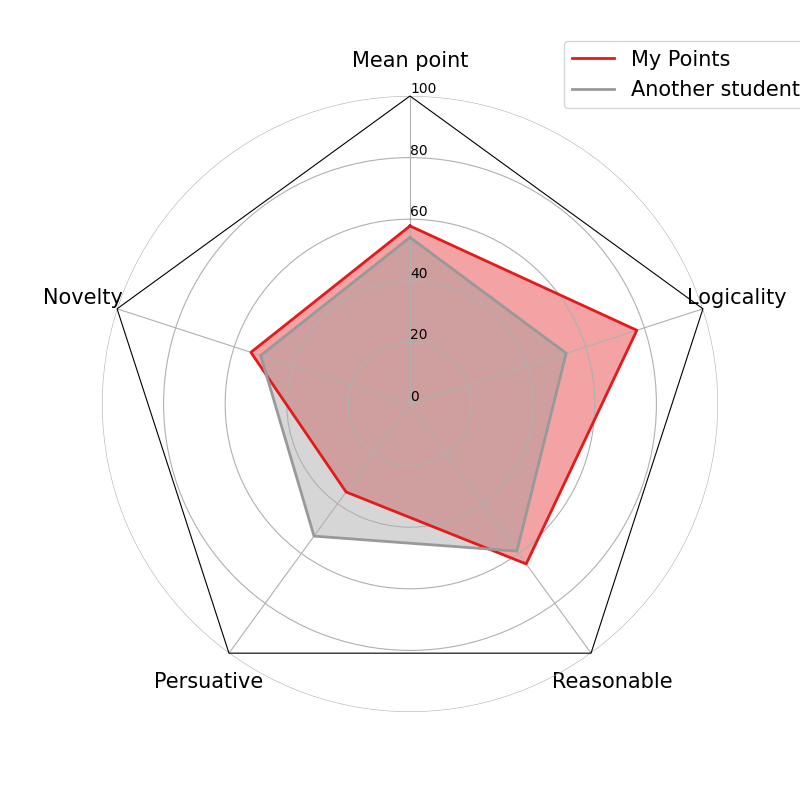
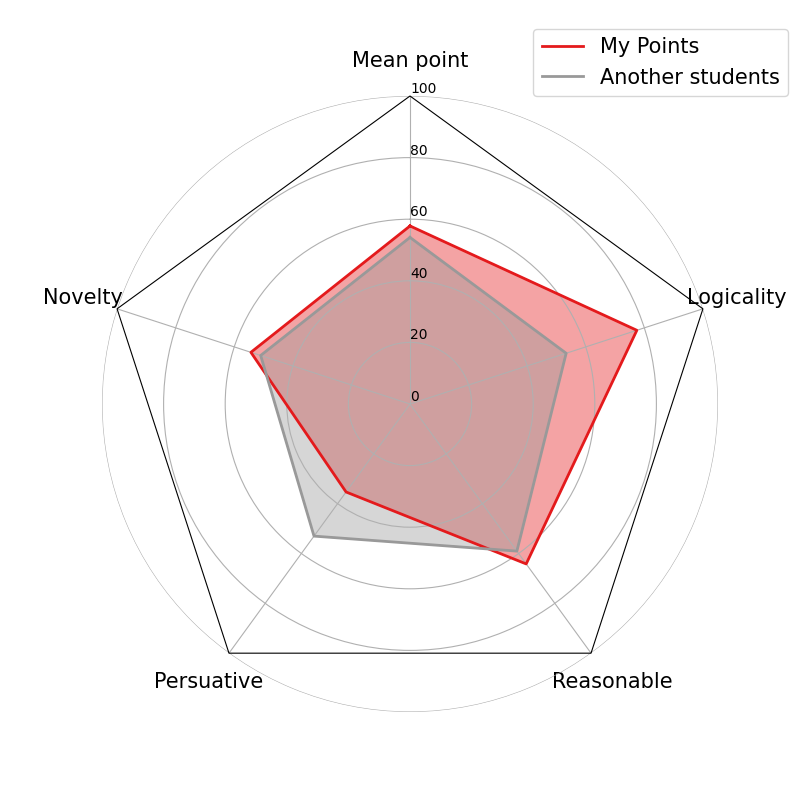
html 수정사항 적용

Changed region(s): [[0.6562, 0.0312, 1.0, 0.125]]

diff --git a/templates/result.html b/templates/result.html
@@ -228,7 +228,7 @@
                         </div>
                         <ul class="ul">
                             <li>내 점수 <span class="blue">{{ my_points[0] }}점</span></li>
-                            <li>점수표본평균 <span class="green">{{ hub_points[0] }}점</span></li>
+                            <li>평균 점수 <span class="green">{{ hub_points[0] }}점</span></li>
                             <li>상위 {{ grade_list[0] }}%</li>
                         </ul>
                     </div>
@@ -246,7 +246,7 @@
                         </div>
                         <ul class="ul">
                             <li>내 점수 <span class="blue">{{ my_points[1] }}점</span></li>
-                            <li>점수표본평균 <span class="green">{{ hub_points[1] }}점</span></li>
+                            <li>평균 점수 <span class="green">{{ hub_points[1] }}점</span></li>
                             <li>상위 {{ grade_list[1] }}%</li>
                         </ul>
                     </div>
@@ -263,7 +263,7 @@
                         </div>
                         <ul class="ul">
                             <li>내 점수 <span class="blue">{{ my_points[2] }}점</span></li>
-                            <li>점수표본평균 <span class="green">{{ hub_points[2] }}점</span></li>
+                            <li>평균 점수 <span class="green">{{ hub_points[2] }}점</span></li>
                             <li>상위 {{ grade_list[2] }}%</li>
                         </ul>
                     </div>
@@ -280,7 +280,7 @@
                         </div>
                         <ul class="ul">
                             <li>내 점수 <span class="blue">{{ my_points[3] }}점</span></li>
-                            <li>점수표본평균 <span class="green">{{ hub_points[3] }}점</span></li>
+                            <li>평균 점수 <span class="green">{{ hub_points[3] }}점</span></li>
                             <li>상위 {{ grade_list[3] }}%</li>
                         </ul>
                     </div>
@@ -300,16 +300,25 @@
                     </div>
                     <div class="total-graph result-graph">
                     </div>
-                    
+                    <div class="total-text result-text">
+                        <div class="by">
+                            Below Points
+                        </div>
+                        <ul class="ul">
+                            <li>내 평균 <span class="blue">{{ total_mean[0] }}</span></li>
+                            <li>요소 평균 <span class="green">{{ total_mean[1] }}</span></li>
+                            <li>상위 {{ grade_list[4] }}%</li>
+                        </ul>
+                    </div>
                 </div>
                 <div class="total-evaluation">
                     <div class="evaluation-title">
                         당신의 평균 점수는 : 
                     </div>
                     <div class="evaluation-text">
-                        {{ total_mean[0] }}점
+                        {{ total_mean[0] }}
                         <div class="evaluation-under">
-                            
+                            당신의 에세이는 상위 <span class="persent">{{ grade_list[4] }}%</span>
                             전체적으로 글을 잘 쓰셨습니다.
 
                         </div>
@@ -317,30 +326,81 @@
                     <div class="evaluation-element">
                         요소별 평가
                         <ul class="evaluation-ul">
-                            <li>
-                                논리성 : 
+                            <li class="li logical-li">
+                                논리성 : {{ my_points[0] }}
+                                <div class="progress logical-progress">
+                                    <div class="bar logical-bar">
+                                    </div>
+                                </div>
                             </li>
-                            <li>
-                                풍부한 근거 :
+                            <li class="li novelty-li">
+                                풍부한 근거 : {{ my_points[1] }}
+                                <div class="progress novelty-progress">
+                                    <div class="bar novelty-bar">
+                                    </div>
                             </li>
-                            <li>
-                                설득력 :
+                            <li class="li persuasive-li">
+                                설득력 : {{ my_points[2] }}
+                                <div class="progress persuasive-progress">
+                                    <div class="bar persuasive-bar">
+                                    </div>
                             </li>
-                            <li>
-                                참신성 :
+                            <li class="li reason-li">
+                                참신성 : {{ my_points[3] }}
+                                <div class="progress reason-progress">
+                                    <div class="bar reason-bar">
+                                    </div>
                             </li>
                         </ul>
                     </div>
                 </div>
             </div>
         </div>
-        <div class="wrapper">
-            위 점수의 표본은 초중고 에세이 약 1만4천개를 가져왔습니다.<br>
-            출처 : AIHub_에세이 글 평가 데이터 
-        </div>
+
         <footer>
                 Made by AI Model : DaegonYu     |       Web Page : IlhanYu
         </footer>
+        <script>
+            let logicalBarPersent = document.querySelector(".logical-bar");
+            let logicalBlue = document.querySelector(".logical-blue");
+            let logicalBlueInnerHTML;
+            let noveltyBarPersent = document.querySelector(".novelty-bar");
+            let noveltyBlue = document.querySelector(".novelty-blue");
+            let noveltyBlueInnerHTML;
+            let persuasiveBarPersent = document.querySelector(".persuasive-bar");
+            let persuasiveBlue = document.querySelector(".persuasive-blue");
+            let persuasiveBlueInnerHTML;
+            let reasonBarPersent = document.querySelector(".reason-bar");
+            let reasonBlue = document.querySelector(".reason-blue");
+            let reasonBlueInnerHTML;
+
+            function barMove (event) {
+                logicalBlueInnerHTML = logicalBlue.innerHTML;
+                noveltyBlueInnerHTML = noveltyBlue.innerHTML;
+                persuasiveBlueInnerHTML = persuasiveBlue.innerHTML;
+                reasonBlueInnerHTML = reasonBlue.innerHTML;
+
+                for(let i = 0; i <= logicalBlueInnerHTML * 8; i++) {
+                    console.log(logicalBlueInnerHTML);
+                    logicalBarPersent.style.width = `${i}px`; 
+                }
+                for(let i = 0; i <= noveltyBlueInnerHTML * 8; i++) {
+                    console.log(noveltyBlueInnerHTML);
+                    noveltyBarPersent.style.width = `${i}px`; 
+                }
+                for(let i = 0; i <= persuasiveBlueInnerHTML * 8; i++) {
+                    console.log(persuasiveBlueInnerHTML);
+                    persuasiveBarPersent.style.width = `${i}px`; 
+                }
+                for(let i = 0; i <=  reasonBlueInnerHTML * 8; i++) {
+                    console.log(reasonBlueInnerHTML);
+                    reasonBarPersent.style.width = `${i}px`; 
+                }
+            }
+    
+            barMove();
+    
+        </script>
     </body>
 </html>
 

diff --git a/app.py b/app.py
@@ -40,6 +40,10 @@ reason_mean = round(float(reason_mean),2)
 persuasive_mean = round(float(persuasive_mean),2)
 novelty_mean = round(float(novelty_mean),2)
 
+total_score_per_student = logical_hub_points+reason_hub_points+persuasive_hub_points+novelty_hub_points
+total_score_per_student /= 4        # 평균
+total_score_per_student = np.round(total_score_per_student, 2)  # 반올림
+
 hub_points = [logical_mean, reason_mean, persuasive_mean, novelty_mean]
 hub_mean = round(sum(hub_points) / len(hub_points),2)
 
@@ -48,7 +52,7 @@ logical_hub_points_list = list(logical_hub_points)
 reason_hub_points_list = list(reason_hub_points)
 persuasive_hub_points_list = list(persuasive_hub_points)
 novelty_hub_points_list = list(novelty_hub_points)
-
+total_score_per_student = list(total_score_per_student)
 
 # title_font = {        # plt
 #     'fontsize': 16,
@@ -74,9 +78,9 @@ def result():
         persuasive_point = persuasive_model.result_point(input_sentence, mode_='persuasive')
         novelty_point = novelty_model.result_point(input_sentence, mode_='novelty')
         
-        total_point = logical_point + reason_point + persuasive_point + novelty_point
-        point_list = [logical_point, reason_point, persuasive_point, novelty_point]
-        my_point_mean = round(sum(point_list) / len(point_list),2)
+        
+        my_point_list = [logical_point, reason_point, persuasive_point, novelty_point]
+        my_point_mean = round(sum(my_point_list) / len(my_point_list),2)
         total_mean = my_point_mean, hub_mean
         # 점수가 다른 학생들과 비교하여 상위 몇 % 인지 계산
         
@@ -84,16 +88,17 @@ def result():
         reason_hub_points_list.append(reason_point)
         persuasive_hub_points_list.append(persuasive_point)
         novelty_hub_points_list.append(novelty_point)
+        total_score_per_student.append(my_point_mean)
         
-        logical_hub_points_list.sort(); reason_hub_points_list.sort(); persuasive_hub_points_list.sort(); novelty_hub_points_list.sort()
+        logical_hub_points_list.sort(); reason_hub_points_list.sort(); persuasive_hub_points_list.sort(); novelty_hub_points_list.sort(); total_score_per_student.sort()
         
         my_logical_grade = (len(logical_hub_points_list) - logical_hub_points_list.index(logical_point)) / len(logical_hub_points_list) * 100
         my_reason_grade = (len(reason_hub_points_list) - reason_hub_points_list.index(reason_point)) / len(reason_hub_points_list) * 100
         my_persuasive_grade = (len(persuasive_hub_points_list) - persuasive_hub_points_list.index(persuasive_point)) / len(persuasive_hub_points_list) * 100
         my_novelty_grade = (len(novelty_hub_points_list) - novelty_hub_points_list.index(novelty_point)) / len(novelty_hub_points_list) * 100
+        my_total_grade = (len(total_score_per_student) - total_score_per_student.index(my_point_mean)) / len(total_score_per_student) * 100
         
-        grade_list = [my_logical_grade, my_reason_grade, my_persuasive_grade, my_novelty_grade]     
-        my_grade_mean = round(sum(grade_list) / len(grade_list),2)
+        grade_list = [my_logical_grade, my_reason_grade, my_persuasive_grade, my_novelty_grade, my_total_grade]     
         grade_list = [round(grade,2) for grade in grade_list]
         
         
@@ -105,9 +110,9 @@ def result():
         pic.graph(mode='reason', essay_point=reason_point, mean=reason_mean, font_size=font_size)
         pic.graph(mode='persuasive', essay_point=persuasive_point, mean=persuasive_mean, font_size=font_size)
         pic.graph(mode='novelty', essay_point=novelty_point, mean=novelty_mean, font_size=font_size)
-        pic.total_graph(mean=total_mean, my_points=point_list, hub_points=hub_points)
+        pic.total_graph(mean=total_mean, my_points=my_point_list, hub_points=hub_points)
         
-        return render_template("result.html", essay=essay, my_points=point_list, \
+        return render_template("result.html", essay=essay, my_points=my_point_list, \
             hub_points=hub_points, grade_list=grade_list, total_mean=total_mean)
     else:
         return render_template("index.html")

diff --git a/pic.py b/pic.py
@@ -13,7 +13,7 @@ def graph(mode, essay_point, mean, font_size):
     
     points = [essay_point, mean]    
     x = np.arange(2)
-    names = ['My point', 'Another student']
+    names = ['My point', 'Other students']
     plt.xticks(x,names, fontsize = font_size)
     plt.bar(x, points, color=[my_palette(0),my_palette(1)])
     plt.ylim(max(min(points)-25,0), max(points)+10)
@@ -33,7 +33,7 @@ def graph(mode, essay_point, mean, font_size):
 def total_graph(mean,my_points, hub_points):
     ## 데이터 준비
     df = pd.DataFrame({
-    'Character': ['My Points','Another students'],
+    'Character': ['My Points','Other students'],
     'Mean point': [mean[0], mean[1]],
     'Logicality': [my_points[0], hub_points[0]],
     'Reasonable': [my_points[1], hub_points[1]],
